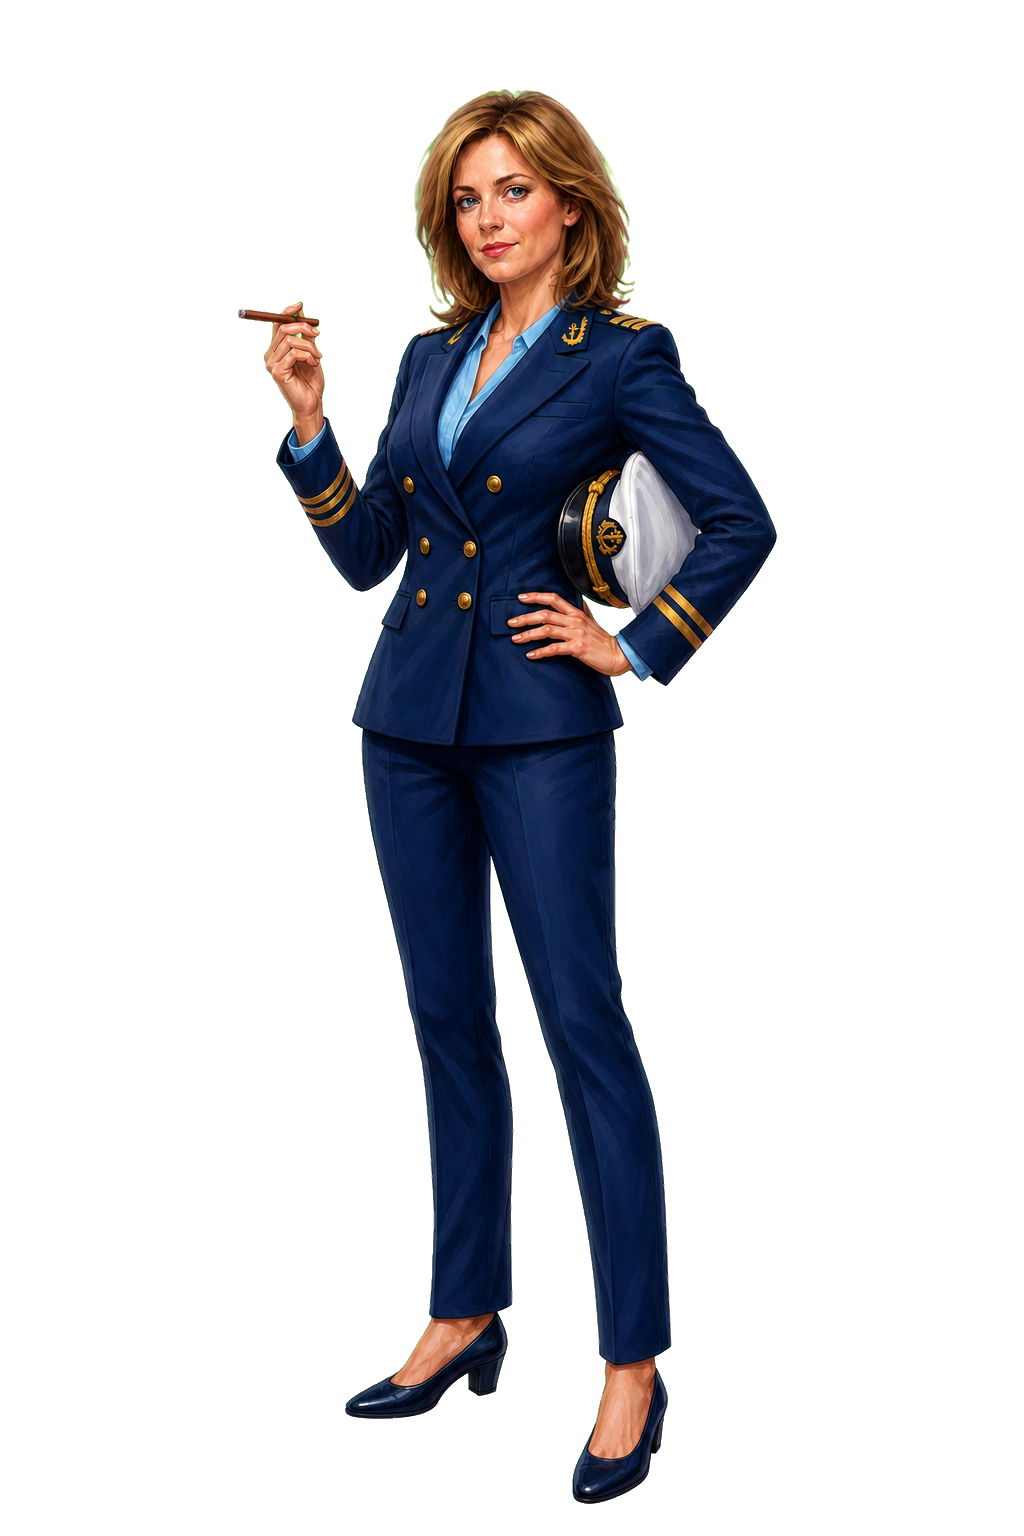
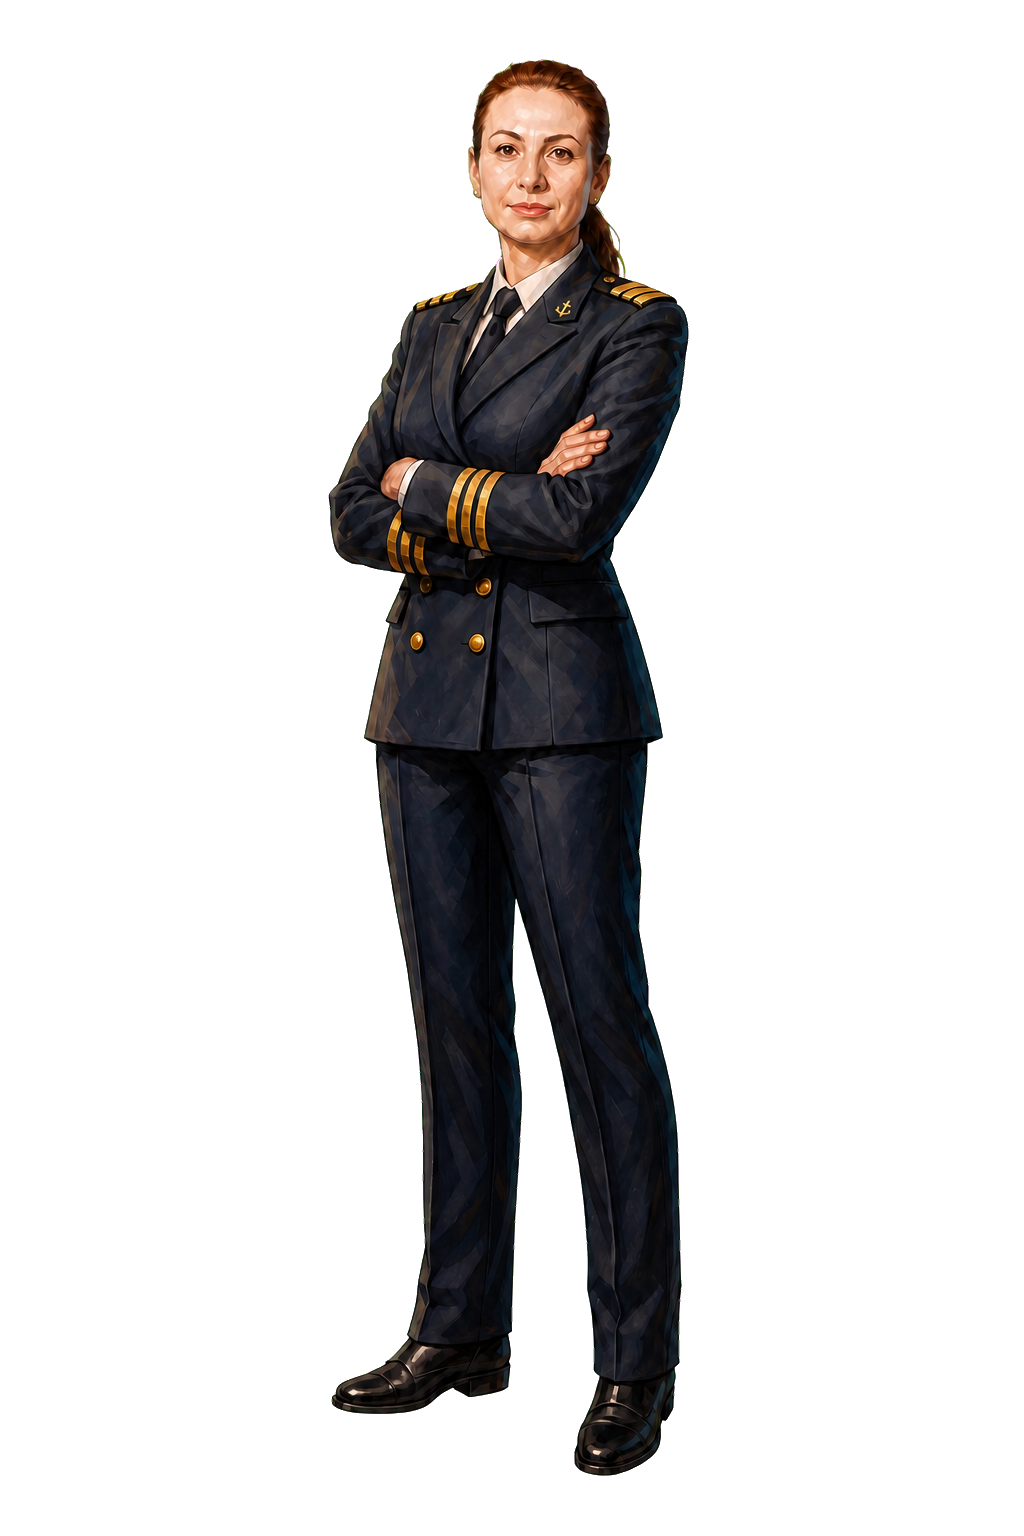
feat(assets): add Midnight Sensationalist alternate skin and refine likeness policy docs

Changed region(s): [[0.2188, 0.0312, 0.7812, 1.0]]

diff --git a/e2e/content-lifecycle.spec.ts b/e2e/content-lifecycle.spec.ts
@@ -282,7 +282,9 @@ async function assertTemporaryCharacterIsPlayable(
     `.roster-choice[data-character-id="${temporaryCharacterId}"]`,
   );
   await expect(temporaryOption).toHaveCount(1);
-  await expect(temporaryOption).toContainText(temporaryCharacterName);
+  await expect(temporaryOption).toHaveAccessibleName(
+    new RegExp(`^${temporaryCharacterName}\\. Weaknesses:`, 'u'),
+  );
   await temporaryOption.click();
   await page
     .getByRole('button', { name: 'Next skin for Player two' })

diff --git a/e2e/screen-shell.spec.ts b/e2e/screen-shell.spec.ts
@@ -398,6 +398,7 @@ test('every alternate portrait decodes while roster portraits stay canonical', a
   for (const characterId of [
     'red-folded-chairman',
     'thunder-tribune',
+    'midnight-sensationalist',
     'black-sea-captain',
     'government-ai',
     'retiring-cassandra',

diff --git a/tests/unit/content-schemas.test.ts b/tests/unit/content-schemas.test.ts
@@ -1160,6 +1160,7 @@ describe('content schemas', () => {
     const alternateSkinIds = new Set([
       'red-folded-chairman',
       'thunder-tribune',
+      'midnight-sensationalist',
       'black-sea-captain',
       'government-ai',
       'retiring-cassandra',

diff --git a/README.md b/README.md
@@ -6,9 +6,11 @@ deny useful phrases, target character weaknesses, continue combinations across
 rounds, use comebacks, and reduce the opponent's Pride.
 
 The game occurs in an invented republic influenced by Romanian public life
-after 1989. Its characters are fictional composites. It does not reproduce
-real people, real political party names, party acronyms, party logos, protected
-game content, third-party art, or unlicensed third-party audio.
+after 1989. Its character identities and prose are fictional. A portrait skin
+can use a public-figure likeness for visual parody when the product owner
+explicitly approves it. The skin does not change the character name or prose.
+The game does not reproduce real political party names, party acronyms, party
+logos, protected game content, third-party art, or unlicensed third-party audio.
 
 ## Planned play modes
 
@@ -33,10 +35,11 @@ Milestones 023 through 025, 027 through 029, and 031 remain incomplete.
 
 The current content has common Romanian-politics phrases and 19 fictional
 characters: 18 humans and one robot. Each character has owned phrases and a
-default local portrait. The four vertical-slice characters and Retiring
-Cassandra have alternate skins. The Retiring Cassandra statesman skin is an
-approved visual-only exception that does not change game identity or prose. The
-content includes two fictional layered debate studios, four playable
+default local portrait. The four vertical-slice characters, Retiring Cassandra,
+and Midnight Sensationalist have alternate skins. The Retiring Cassandra
+statesman skin and the approved Midnight Sensationalist likeness skins are
+visual-only exceptions that do not change game identity or prose. The content
+includes two fictional layered debate studios, four playable
 foundation scenes with a neutral local fallback, and one English game-locale
 bundle.
 

diff --git a/docs/specs/spec-005-content-schemas.md b/docs/specs/spec-005-content-schemas.md
@@ -46,9 +46,9 @@ Locale bundles use canonical BCP 47 tags and identical plain-text grammar,
 phrase, constructed-sentence, and speech message-key sets. Interface labels and
 controls are always English and do not enter locale bundles. Every referenced
 text and number-form key exists. Reject HTML, script URLs, inline handlers,
-unsafe editorial states, real-person references, real-party references,
-protected-trait insults, sexual humiliation, threats, real logos, and
-copyrighted broadcast graphics.
+unsafe editorial states, player-visible real-person references, real-party
+references, protected-trait insults, sexual humiliation, threats, real logos,
+and copyrighted broadcast graphics.
 
 ## Exact constraints
 
@@ -83,9 +83,12 @@ copyrighted broadcast graphics.
 - Each character owns exactly one weak, one medium, and one strong comeback
   line. Each key uses `comeback.<character-id>.<tier>` and cannot be shared by
   another character or tier. There is no common comeback pool.
-- Shipped prose, specifications, editorial rationale, source notes, and asset
-  metadata do not name or identify a real person. Public institutions and
-  historical events remain permitted.
+- Shipped player-visible prose, editorial rationale, and source notes do not
+  name or identify a real person. Public institutions and historical events
+  remain permitted. An embedded asset-generation prompt can name a public
+  figure only when the product owner explicitly approves that figure as the
+  visual reference for a portrait skin. This provenance is not player-visible.
+  The skin does not change the fictional character identity or prose.
 - Shipped prose, specifications, editorial rationale, source notes, and asset
   metadata do not use a real political party's name, acronym, or logo. Allowed
   generic labels include `The Conservative Party`, `The Peasant's Party`,

diff --git a/docs/specs/spec-027-balance-editorial.md b/docs/specs/spec-027-balance-editorial.md
@@ -18,14 +18,19 @@ players. Romanian proper nouns require enough English context to carry the joke.
 Permit political parody, public-record criticism, fictional institutions,
 composite scandals, bureaucracy, media satire, contradiction, and vanity satire
 aimed at fictional personas. Hard-edged allegations can target fictional
-personas. Reject real-person references, real-party names and acronyms,
-protected traits as insults, sexual humiliation, threats, copied text, real
-logos, and copyrighted broadcast art. Every record has review evidence.
+personas. Reject player-visible real-person references, real-party names and
+acronyms, protected traits as insults, sexual humiliation, threats, copied
+text, real logos, and copyrighted broadcast art. Every record has review
+evidence.
 
-The review confirms that each character is an original fictional composite. It
-rejects named or identifiable real-person models, comparisons, targets, source
-notes, and asset references. It also rejects real political party names,
-acronyms, and logos. It permits generic ideological or social-family labels.
+The review confirms that each character identity and its prose are fictional.
+It rejects named or identifiable real-person comparisons, targets, source
+notes, and asset references. A portrait skin can use a public-figure likeness
+as a visual-only parody when the product owner explicitly approves it.
+Non-player-visible generation provenance can name that reference person. This
+exception does not permit real-person allegations or player-visible names. The
+review also rejects real political party names, acronyms, and logos. It permits
+generic ideological or social-family labels.
 
 Simulation reports seed, workload, matchups, difficulties, win rates, resolved
 round counts, rule-event rates, failures, and environment. Automatic development

diff --git a/docs/specs/spec-031-mvp-content-finalization.md b/docs/specs/spec-031-mvp-content-finalization.md
@@ -152,13 +152,16 @@ failed automated range or distribution.
 
 ## Content research boundary
 
-All characters remain original fictional composites. Research can use public
+All character identities and prose remain fictional. Research can use public
 institutions, documented historical events, constitutional mechanisms, and
-broad media forms. Do not use a real person as a named or identifiable source,
-model, comparison, or target. Do not copy photographs, accusations, protected
-prose, or slogans other than the one sourced English form that AC-005-07
-approves. Do not use real political party names, acronyms, or logos. Use only
-generic ideological or social-family party labels.
+broad media forms. A portrait skin can use a public-figure likeness as a
+visual-only parody when the product owner explicitly approves it. The skin's
+non-player-visible generation provenance can name that reference person. Do not
+use a real person as a comparison or target in player-visible content. Do not
+copy photographs, accusations, protected prose, or slogans other than the one
+sourced English form that AC-005-07 approves. Do not use real political party
+names, acronyms, or logos. Use only generic ideological or social-family party
+labels.
 
 Shared institutional themes can use
 [Article 115 of the Romanian Constitution](https://legislatie.just.ro/Public/FormaPrintabila/00000G3QRPQ5ISMZZG72V3845TJDVM93)

diff --git a/PRODUCT.md b/PRODUCT.md
@@ -58,9 +58,10 @@ The minimum viable product (MVP) supports local single-player and hotseat play.
 - The implemented content includes Zod 4 schemas and an English game-locale
   bundle. It also includes 19 original fictional characters, 18 human and one
   fully mechanical, Romanian-politics phrase content, and separate transparent
-  default portraits. The four vertical-slice characters and Retiring Cassandra
-  also have alternate skins. The Retiring Cassandra statesman skin is an
-  approved visual-only exception that does not change game identity or prose.
+  default portraits. The four vertical-slice characters, Retiring Cassandra,
+  and Midnight Sensationalist also have alternate skins. The Retiring Cassandra
+  statesman skin and the approved Midnight Sensationalist likeness skins are
+  visual-only exceptions that do not change game identity or prose.
   Two scenes use layered debate studios with fixed fictional moderators
   and foreground desk plates. Four playable foundation scenes use one neutral
   local fallback until final scene production.

diff --git a/DESIGN.md b/DESIGN.md
@@ -459,8 +459,10 @@ shadows lift signs, phrase records, actions, roster tiles, and dialogs. Inset
 brass and navy rules make the arena feel built.
 
 The implemented build uses three brand rasters, two studio backgrounds, two
-transparent foreground desk plates, and 23 transparent character portraits:
-19 defaults and 4 alternates.
+transparent foreground desk plates, and 25 transparent character portraits:
+19 defaults and 6 alternates. The Midnight Sensationalist default and female
+alternate use product-owner-approved public-figure likenesses as visual-only
+parody. They do not change the fictional character identity or prose.
 All shipping assets retain their embedded prompt or source provenance. Required
 text and controls remain outside raster art.
 
